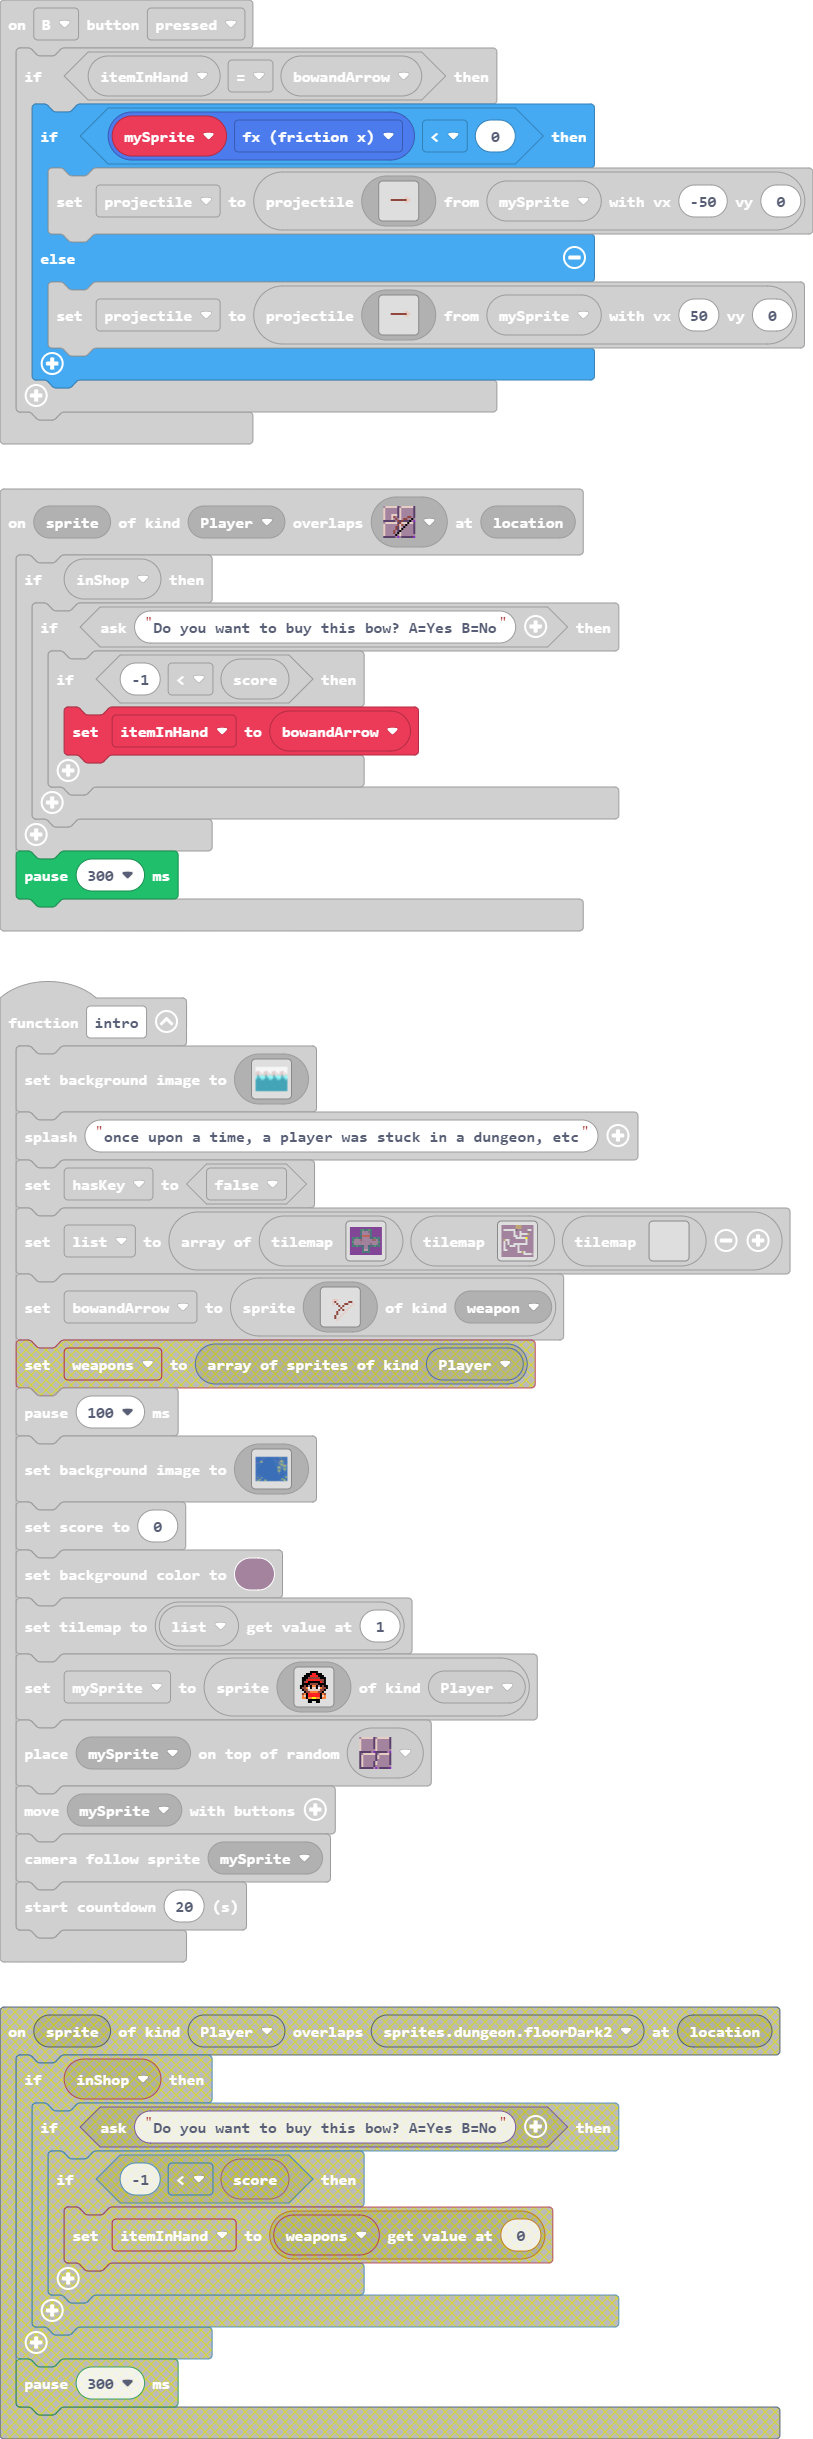
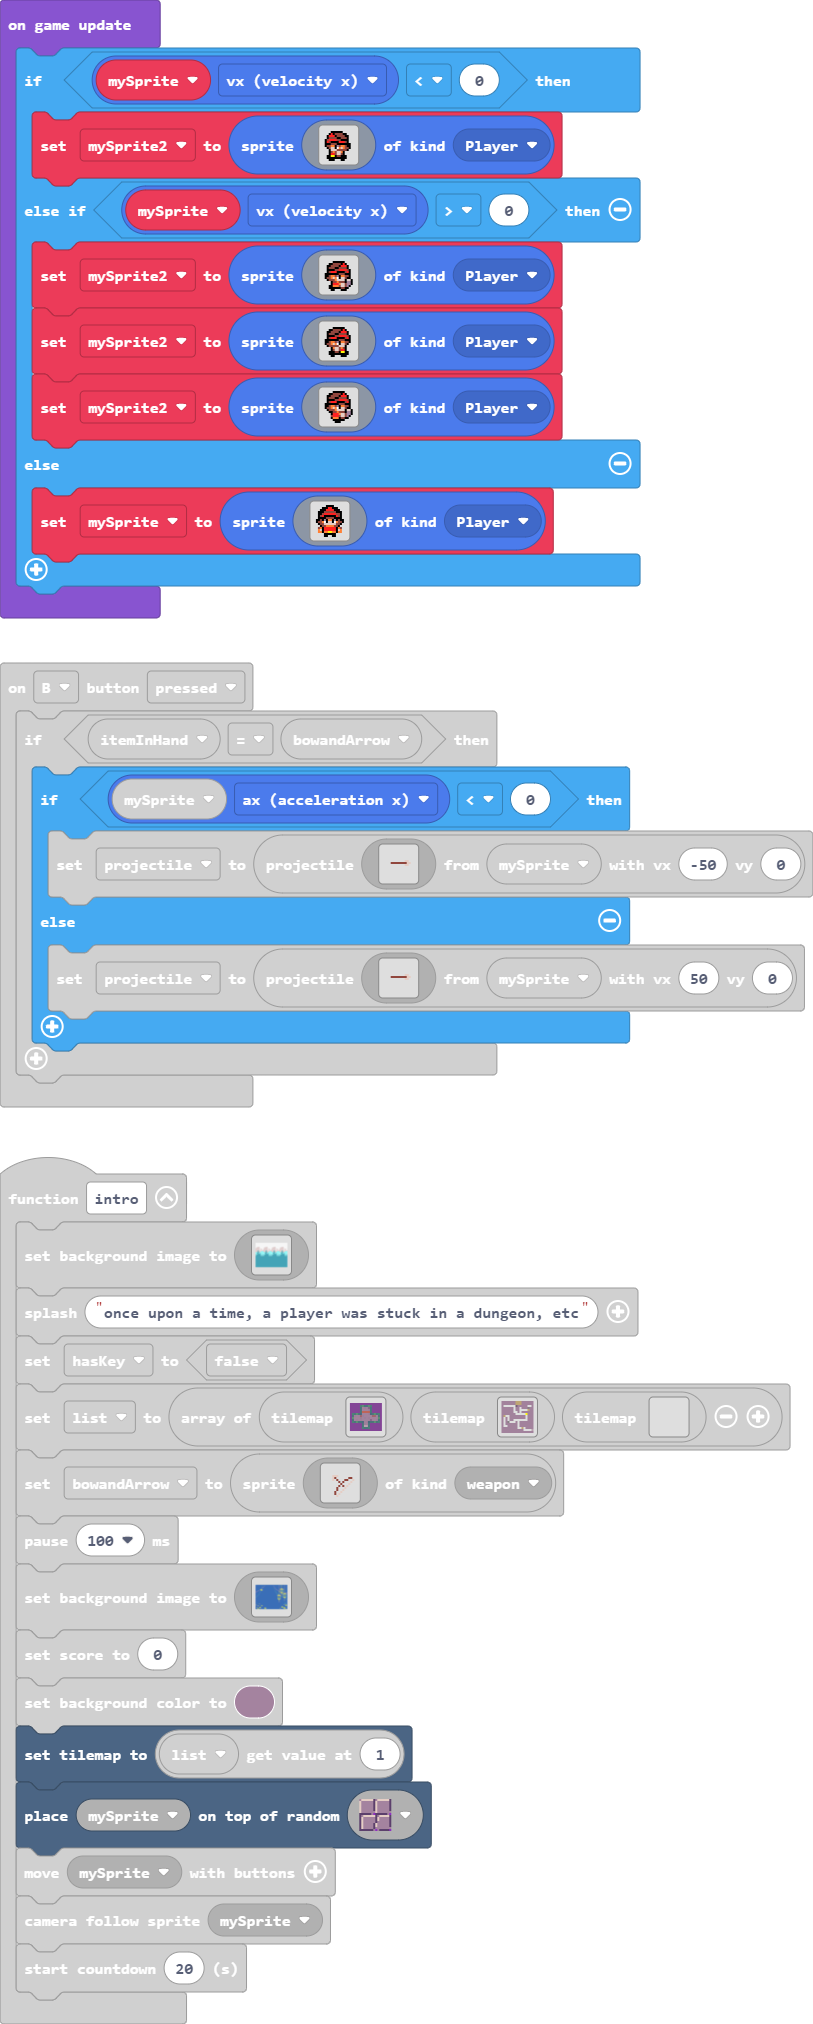
Update main.blocks, main.ts

diff --git a/main.ts b/main.ts
@@ -14,7 +14,7 @@ scene.onOverlapTile(SpriteKind.Player, assets.tile`myTile1`, function (sprite, l
 })
 controller.B.onEvent(ControllerButtonEvent.Pressed, function () {
     if (itemInHand == bowandArrow) {
-        if (mySprite.fx < 0) {
+        if (mySprite.ax < 0) {
             projectile = sprites.createProjectileFromSprite(img`
                 . . . . . . . . . . . . . . . . 
                 . . . . . . . . . . . . . . . . 
@@ -331,24 +331,6 @@ function intro () {
     info.setScore(0)
     scene.setBackgroundColor(11)
     tiles.setCurrentTilemap(list[1])
-    mySprite = sprites.create(img`
-        . . . . . . f f f f . . . . . . 
-        . . . . f f f 2 2 f f f . . . . 
-        . . . f f f 2 2 2 2 f f f . . . 
-        . . f f f e e e e e e f f f . . 
-        . . f f e 2 2 2 2 2 2 e e f . . 
-        . . f e 2 f f f f f f 2 e f . . 
-        . . f f f f e e e e f f f f . . 
-        . f f e f b f 4 4 f b f e f f . 
-        . f e e 4 1 f d d f 1 4 e e f . 
-        . . f e e d d d d d d e e f . . 
-        . . . f e e 4 4 4 4 e e f . . . 
-        . . e 4 f 2 2 2 2 2 2 f 4 e . . 
-        . . 4 d f 2 2 2 2 2 2 f d 4 . . 
-        . . 4 4 f 4 4 5 5 4 4 f 4 4 . . 
-        . . . . . f f f f f f . . . . . 
-        . . . . . f f . . f f . . . . . 
-        `, SpriteKind.Player)
     tiles.placeOnRandomTile(mySprite, sprites.dungeon.floorDark4)
     controller.moveSprite(mySprite)
     scene.cameraFollowSprite(mySprite)
@@ -429,6 +411,7 @@ scene.onOverlapTile(SpriteKind.Player, sprites.dungeon.floorMixed, function (spr
     }
     tiles.placeOnRandomTile(mySprite, sprites.dungeon.floorDark4)
 })
+let mySprite2: Sprite = null
 let shopKeeper_: Sprite = null
 let list: tiles.TileMapData[] = []
 let projectile: Sprite = null
@@ -441,6 +424,102 @@ let inShop = false
 inShop = false
 level = 1
 intro()
+game.onUpdate(function () {
+    if (mySprite.vx < 0) {
+        mySprite2 = sprites.create(img`
+            . . . . . . . . . . . . . . . . 
+            . . . . f f f f f f . . . . . . 
+            . . . f 2 f e e e e f f . . . . 
+            . . f 2 2 2 f e e e e f f . . . 
+            . . f e e e e f f e e e f . . . 
+            . f e 2 2 2 2 e e f f f f . . . 
+            . f 2 e f f f f 2 2 2 e f . . . 
+            . f f f e e e f f f f f f f . . 
+            . f e e 4 4 f b e 4 4 e f f . . 
+            . . f e d d f 1 4 d 4 e e f . . 
+            . . . f d d d e e e e e f . . . 
+            . . . f e 4 e d d 4 f . . . . . 
+            . . . f 2 2 e d d e f . . . . . 
+            . . f f 5 5 f e e f f f . . . . 
+            . . f f f f f f f f f f . . . . 
+            . . . f f f . . . f f . . . . . 
+            `, SpriteKind.Player)
+    } else if (mySprite.vx > 0) {
+        mySprite2 = sprites.create(img`
+            . . . . . . . . . . . . . . . . 
+            . . . . . f f f f f f . . . . . 
+            . . . f f e e e e f 2 f . . . . 
+            . . f f e e e e f 2 2 2 f . . . 
+            . . f e e e f f e e e e f . . . 
+            . . f f f f e e 2 2 2 2 e f . . 
+            . . f e 2 2 2 f f f f e 2 f . . 
+            . f f f f f f f e e e f f f . . 
+            . f f e 4 4 e b f 4 4 e e f . . 
+            . f e e 4 d 4 1 f d d e f f . . 
+            . . f e e e 4 d d d d f d d f . 
+            . . . . f e e 4 e e e f b b f . 
+            . . . . f 2 2 2 4 d d e b b f . 
+            . . . f f 4 4 4 e d d e b f . . 
+            . . . f f f f f f e e f f . . . 
+            . . . . f f . . . f f f . . . . 
+            `, SpriteKind.Player)
+        mySprite2 = sprites.create(img`
+            . . . . . . . . . . . . . . . . 
+            . . . . . f f f f f f . . . . . 
+            . . . f f e e e e f 2 f . . . . 
+            . . f f e e e e f 2 2 2 f . . . 
+            . . f e e e f f e e e e f . . . 
+            . . f f f f e e 2 2 2 2 e f . . 
+            . . f e 2 2 2 f f f f e 2 f . . 
+            . f f f f f f f e e e f f f . . 
+            . f f e 4 4 e b f 4 4 e e f . . 
+            . f e e 4 d 4 1 f d d e f . . . 
+            . . f e e e e e d d d f . . . . 
+            . . . . f 4 d d e 4 e f . . . . 
+            . . . . f e d d e 2 2 f . . . . 
+            . . . f f f e e f 5 5 f f . . . 
+            . . . f f f f f f f f f f . . . 
+            . . . . f f . . . f f f . . . . 
+            `, SpriteKind.Player)
+        mySprite2 = sprites.create(img`
+            . . . . . f f f f f f . . . . . 
+            . . . f f e e e e f 2 f . . . . 
+            . . f f e e e e f 2 2 2 f . . . 
+            . . f e e e f f e e e e f . . . 
+            . . f f f f e e 2 2 2 2 e f . . 
+            . . f e 2 2 2 f f f f e 2 f . . 
+            . f f f f f f f e e e f f f . . 
+            . f f e 4 4 e b f 4 4 e e f . . 
+            . f e e 4 d 4 1 f d d e f f . . 
+            . . f e e e 4 d d d d f d d f . 
+            . . . f f e e 4 e e e f b b f . 
+            . . . . f 2 2 2 4 d d e b b f . 
+            . . . . e 2 2 2 e d d e b f . . 
+            . . . . f 4 4 4 f e e f f . . . 
+            . . . . . f f f f f f . . . . . 
+            . . . . . . f f f . . . . . . . 
+            `, SpriteKind.Player)
+    } else {
+        mySprite = sprites.create(img`
+            . . . . . . f f f f . . . . . . 
+            . . . . f f f 2 2 f f f . . . . 
+            . . . f f f 2 2 2 2 f f f . . . 
+            . . f f f e e e e e e f f f . . 
+            . . f f e 2 2 2 2 2 2 e e f . . 
+            . . f e 2 f f f f f f 2 e f . . 
+            . . f f f f e e e e f f f f . . 
+            . f f e f b f 4 4 f b f e f f . 
+            . f e e 4 1 f d d f 1 4 e e f . 
+            . . f e e d d d d d d e e f . . 
+            . . . f e e 4 4 4 4 e e f . . . 
+            . . e 4 f 2 2 2 2 2 2 f 4 e . . 
+            . . 4 d f 2 2 2 2 2 2 f d 4 . . 
+            . . 4 4 f 4 4 5 5 4 4 f 4 4 . . 
+            . . . . . f f f f f f . . . . . 
+            . . . . . f f . . f f . . . . . 
+            `, SpriteKind.Player)
+    }
+})
 forever(function () {
     music.play(music.stringPlayable("E B C5 A B G A F ", 120), music.PlaybackMode.UntilDone)
 })
